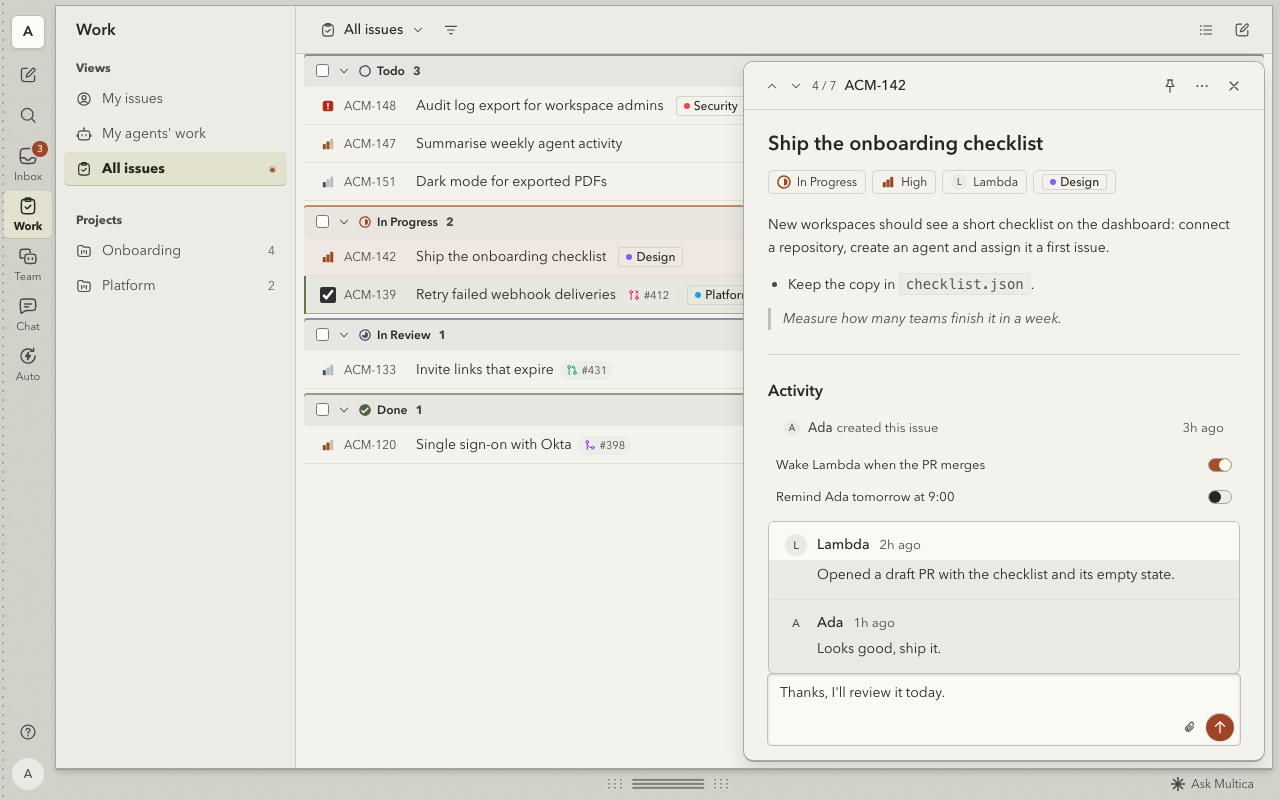
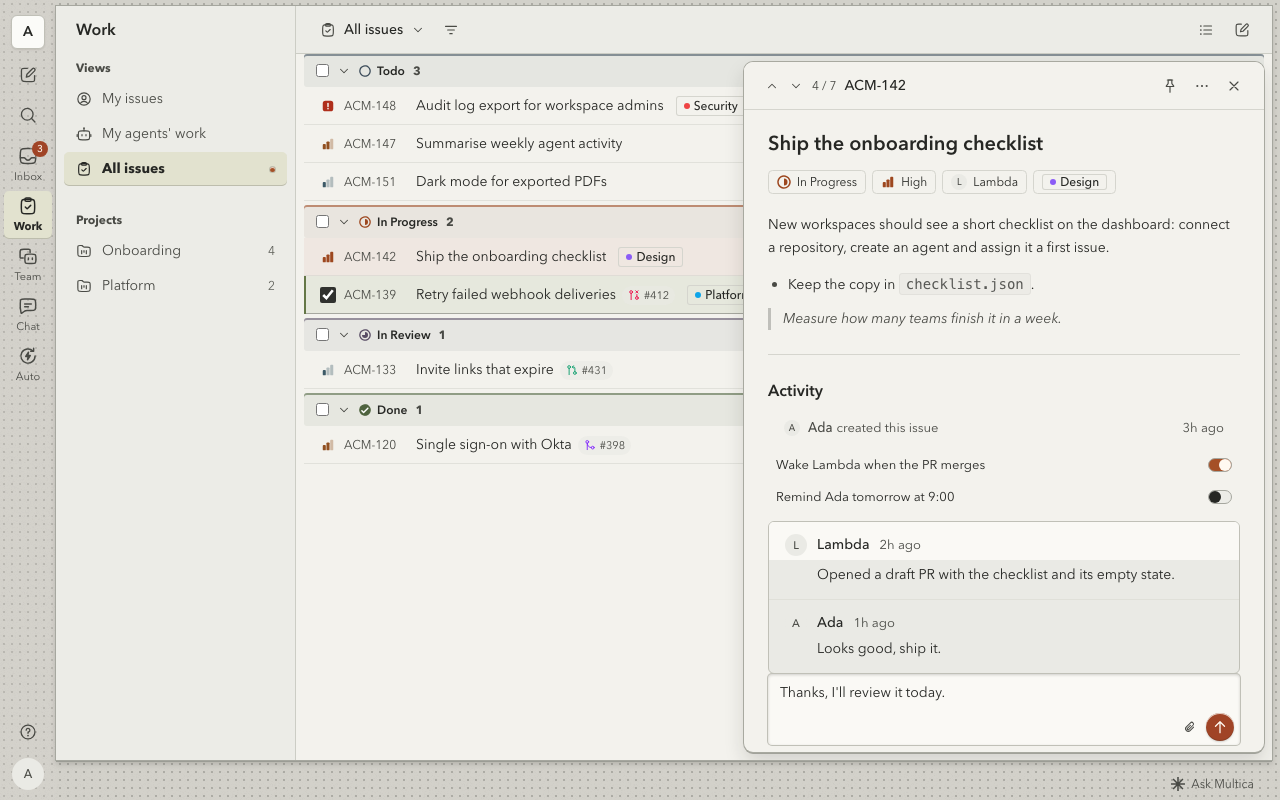
style: replace the Braun grille with a perforated chassis

Changed region(s): [[0.0312, 0.9375, 1.0, 1.0]]

diff --git a/theme.css b/theme.css
@@ -121,11 +121,10 @@
   --relay-active-key: #e2e2cf;
   --relay-detail: #f6f5f0;
   --relay-status-lamp: #657747;
-  --relay-grille-image: url(images/grille-light.png);
   --relay-lane-tint: 4%;
   --relay-lane-mark: 58%;
   --relay-key-face: #3b3a37;
-  --relay-perforation-ink: rgb(43 42 37 / 0.25);
+  --relay-perforation-ink: rgb(39 39 33 / 0.32);
 }
 
 .theme-dark {
@@ -194,11 +193,10 @@
   --relay-active-key: #485141;
   --relay-detail: #242524;
   --relay-status-lamp: #b9c997;
-  --relay-grille-image: url(images/grille-dark.png);
   --relay-lane-tint: 5%;
   --relay-lane-mark: 51%;
   --relay-key-face: #41413c;
-  --relay-perforation-ink: rgb(0 0 0 / 0.72);
+  --relay-perforation-ink: rgb(239 239 233 / 0.16);
 }
 
 :root.theme-light[data-theme-option-signal="olive"] {
@@ -255,19 +253,8 @@
 }
 
 :is([data-mc="app-rail"], [data-mc="window-toolbar"], [data-mc="tab-bar"], [data-mc="bottom-bar"]) {
-  --relay-grain-image: url(images/molded-grain.png);
-  background-image: var(--relay-grain-image);
+  background-image: url(images/molded-grain.png);
   background-repeat: repeat;
-}
-
-/* Keep perforations to the edge of the frame, clear of the rail labels. */
-:root[data-theme-option-chassis-detail] [data-mc="app-rail"] {
-  background-image:
-    radial-gradient(circle at 3px 4px, var(--relay-perforation-ink) 0.7px, transparent 1.2px),
-    var(--relay-grain-image);
-  background-position: left top, left top;
-  background-size: 6px 9px, auto;
-  background-repeat: repeat-y, repeat;
 }
 
 [data-mc="issue-group-header"] {
@@ -460,33 +447,21 @@
   box-shadow: inset 0 1px var(--relay-glint), 0 0 0 1px var(--relay-dark-edge);
 }
 
+/* One perforated surface runs under the frame and its controls. */
+:root[data-theme-option-chassis-detail] {
+  --backdrop: radial-gradient(circle, var(--relay-perforation-ink) 0.75px, transparent 1.35px) 0 0 / 8px 8px;
+  --backdrop-color: var(--app-shell);
+  --frame-glass-opacity: 32%;
+  --frame-glass-blur: 0px;
+  --glass-opacity: 100%;
+  --glass-blur: 0px;
+}
+
 @media (min-width: 768px) {
   :root[data-theme-option-chassis-detail] [data-mc="page"] {
     margin-block-start: 6px;
+    margin-block-end: 8px;
     margin-inline-end: 8px;
     --page-shadow: 0 2px 0 var(--relay-edge), 0 4px 6px var(--relay-dark-edge);
-  }
-
-  :root[data-theme-option-chassis-detail] [data-mc="bottom-bar"] {
-    background-image: var(--relay-grille-image), var(--relay-grain-image);
-    background-size: 128px 12px, auto;
-    background-position: center, left top;
-    background-repeat: no-repeat, repeat;
-  }
-
-  /* Some workspace shells have no status bar. Leave room under the card and
-     paint the same bundled grille on its column, clear of app controls. */
-  :root[data-theme-option-chassis-detail]
-  [data-slot="sidebar-wrapper"]:has(> [data-mc="app-rail"])
-  > div:has(> :is([data-slot="app-shell-card"], [data-slot="main-canvas"])):not(:has(> [data-mc="bottom-bar"])) {
-    --relay-grille-strip: 28px;
-    background-image: var(--relay-grille-image);
-    background-size: 128px 12px;
-    background-position: center bottom 8px;
-    background-repeat: no-repeat;
-  }
-
-  :root[data-theme-option-chassis-detail] [data-mc="page"]:is([data-slot="app-shell-card"], [data-slot="main-canvas"]) {
-    margin-block-end: var(--relay-grille-strip, 0px);
   }
 }

diff --git a/README.md b/README.md
@@ -10,9 +10,11 @@ An independent, Braun-inspired console theme that gives Multica boards the feel 
 
 ## Design
 
-The layout follows the front panel of a vintage radio. The outer frame reads as a chassis, the navigation as a control panel, and the main canvas as the work surface. Fine perforations and a three-slot grille sit along the edges. The flat panels and aligned controls leave room for the board and its tasks.
+The layout follows the front panel of a vintage radio. The outer frame reads as a chassis, the navigation as a control panel, and the main canvas as the work surface. Fine perforations cover the exposed frame, from the navigation rail to the bottom edge. The flat panels and aligned controls leave room for the board and its tasks.
 
 Light mode pairs linen grey with a warm porcelain canvas. Dark mode carries the same hierarchy into graphite and charcoal. Small graphite keycaps and softly raised buttons borrow their feel from the Braun ET 66 calculator.
+
+![Close-up of the perforated lower-left corner in light and dark mode](screenshots/chassis.png)
 
 ## Palette
 
@@ -34,7 +36,7 @@ Switch between burnt orange and olive green under **Settings → Appearance → 
 
 In Multica, open **Settings → Appearance → Make your own theme → Import theme** and select the downloaded ZIP. [Download theme.zip](https://github.com/gooyoung/multica-theme-braun/releases/latest/download/theme.zip)
 
-Multica stores themes and options per browser profile. Import the ZIP in each profile where you use Braun. The theme ID is `braun`, and the ZIP includes the CSS and all of its images. Case texture is built in. **Chassis details** are on by default and show the perforations and grille in the wide workspace layout. **Keycap bevels** can be adjusted independently.
+Multica stores themes and options per browser profile. Import the ZIP in each profile where you use Braun. The theme ID is `braun`, and the ZIP includes the CSS and all of its images. Case texture is built in. **Chassis details** are on by default and show the perforated frame in the wide workspace layout. **Keycap bevels** can be adjusted independently.
 
 ### Previews in the theme manager
 

diff --git a/README.zh-CN.md b/README.zh-CN.md
@@ -10,9 +10,11 @@
 
 ## 设计理念
 
-用老式收音机的面板组织界面。外框是机壳，导航是控制面板，中央画布留给任务。细孔沿左侧边缘排列，底部留出三道横槽。平整的面板和对齐的控件，让看板内容容易扫读。
+用老式收音机的面板组织界面。外框是机壳，导航是控制面板，中央画布留给任务。细孔从主导航铺到整个底缘，连成一块完整的机壳。平整的面板和对齐的控件，让看板内容容易扫读。
 
 浅色用亚麻灰衬暖瓷白，深色用石墨灰衬炭黑，两套模式保留相同的明暗层次。石墨色快捷键帽和微微隆起的按键，借鉴了博朗 ET 66 计算器的按键质感。
+
+![浅色和深色模式下左下角的机壳细孔特写](screenshots/chassis.png)
 
 ## 配色
 
@@ -34,7 +36,7 @@
 
 在 Multica 中打开 **设置 → 外观 → 制作自己的主题 → 导入主题**，选择下载的 ZIP。[下载主题包](https://github.com/gooyoung/multica-theme-braun/releases/latest/download/theme.zip)
 
-主题和设置按浏览器配置分别保存，换浏览器时导入一次即可。主题 ID 为 `braun`，包内包含主题 CSS 和全部所需图片。外壳纹理始终开启。**机壳细节** 默认开启，在宽屏工作区显示左侧细孔和底部横槽。**键帽倒角** 可以单独调整。
+主题和设置按浏览器配置分别保存，换浏览器时导入一次即可。主题 ID 为 `braun`，包内包含主题 CSS 和全部所需图片。外壳纹理始终开启。**机壳细节** 默认开启，在宽屏工作区显示机壳细孔。**键帽倒角** 可以单独调整。
 
 ### 主题管理中的预览
 
